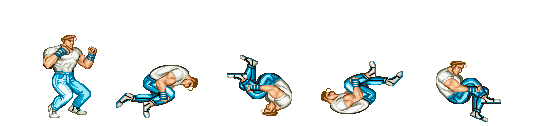
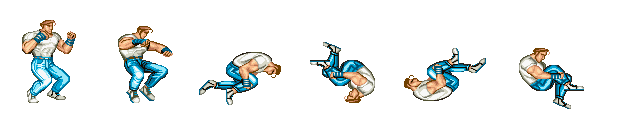
agregamos un frame mas a slide

Changed region(s): [[0.0306, 0.1429, 0.9478, 0.9762]]

diff --git a/TP4/Invasión Alien/style.css b/TP4/Invasión Alien/style.css
@@ -133,7 +133,7 @@ body {
 
 .deslizando{
     background: url('img/characters/cody-slide.png')left center;
-    animation: down 0.65s steps(5) infinite;
+    animation: down 0.7s steps(6) infinite;
     width: 95px;
     height: 126px;
 
@@ -155,7 +155,7 @@ body {
         background-position: 0px;
     }
     100% {
-        background-position: -540px;
+        background-position: -617px;
     }
 }
 
